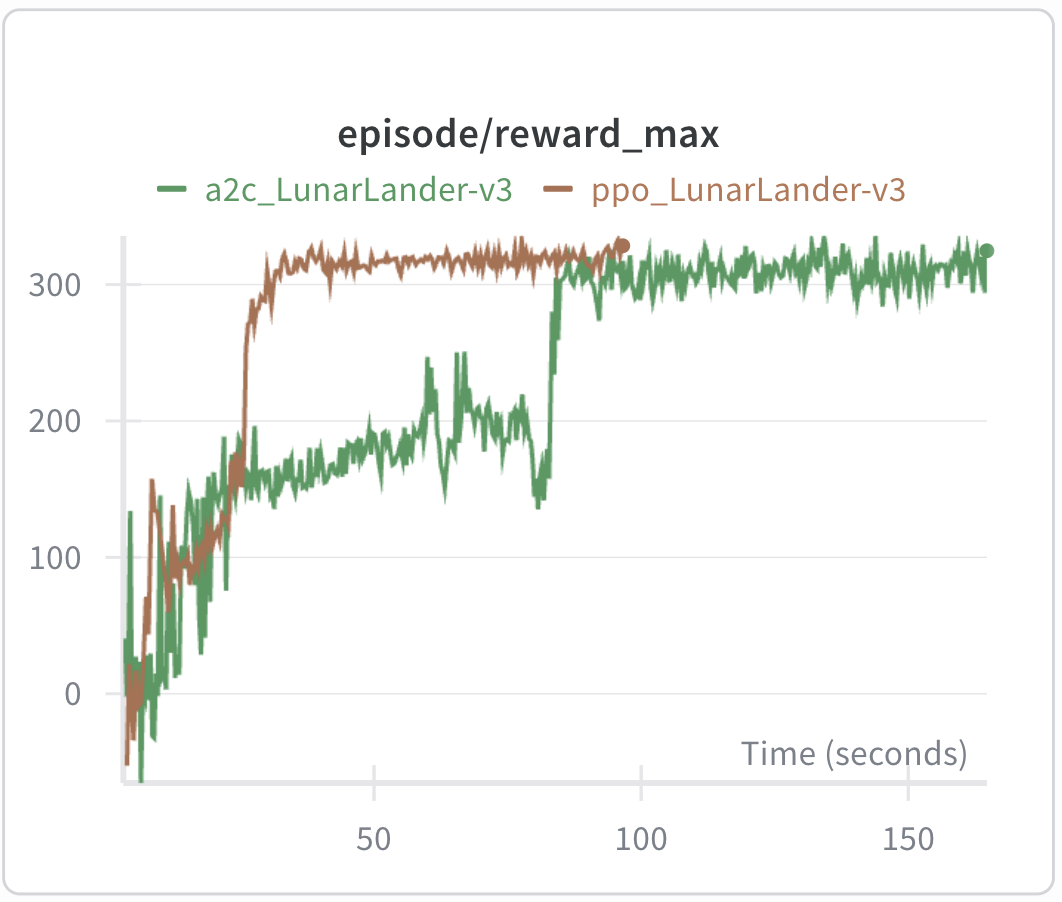
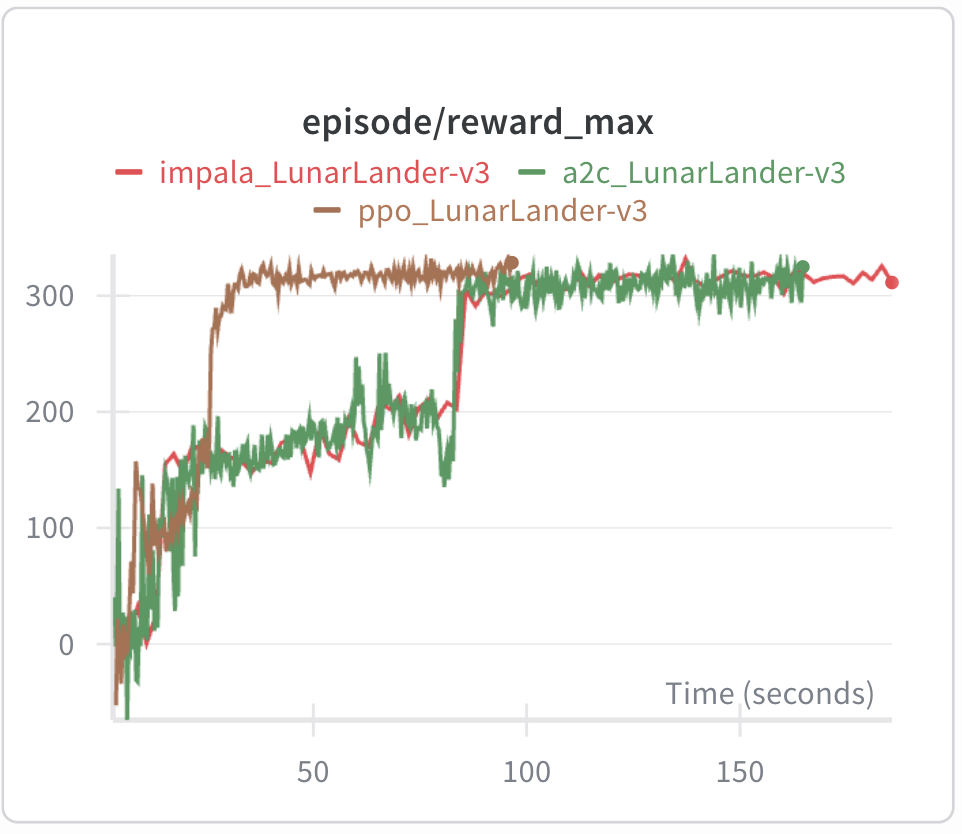
Add impala

diff --git a/impala.py b/impala.py
@@ -1,0 +1,257 @@
+# Minimal IMPALA (Importance Weighted Actor-Learner Architecture) in JAX/Flax NNX
+# Single-device, LunarLander-v3, V-trace off-policy correction
+import queue
+import threading
+import time
+from argparse import ArgumentParser
+from typing import List, NamedTuple
+
+import gymnasium as gym
+import jax
+import jax.numpy as jnp
+import numpy as np
+import optax
+import rlax
+from flax import nnx
+import wandb
+
+
+class IMPALAAgent(nnx.Module):
+    def __init__(self, obs_dim: int, action_dim: int, *, rngs: nnx.Rngs):
+        self.fc1 = nnx.Linear(obs_dim, 256, rngs=rngs)
+        self.fc_pi = nnx.Linear(256, action_dim, rngs=rngs)
+        self.fc_v = nnx.Linear(256, 1, rngs=rngs)
+
+    def __call__(self, x):
+        x = nnx.relu(self.fc1(x))
+        logits = self.fc_pi(x)
+        value = self.fc_v(x).squeeze(-1)
+        return logits, value
+
+
+class Transition(NamedTuple):
+    obs: list
+    dones: list
+    actions: list
+    logits: list
+    rewards: list
+
+
+def rollout(
+    key: jax.random.PRNGKey,
+    args,
+    rollout_queue: queue.Queue,
+    params_queue: queue.Queue,
+    thread_id: int,
+    graphdef,
+    log_to_wandb: bool,
+):
+    envs = gym.vector.SyncVectorEnv(
+        [lambda: gym.make("LunarLander-v3", max_episode_steps=300) for _ in range(args.num_envs)]
+    )
+    global_step = 0
+
+    @jax.jit
+    def get_action(params, obs, key):
+        obs = jnp.array(obs)
+        agent = nnx.merge(graphdef, params)
+        logits, _ = agent(obs)
+        key, subkey = jax.random.split(key)
+        u = jax.random.uniform(subkey, shape=logits.shape)
+        action = jnp.argmax(logits - jnp.log(-jnp.log(u)), axis=1)
+        return obs, action, logits, key
+
+    @jax.jit
+    def prepare_data(storage: List[Transition]) -> Transition:
+        return jax.tree.map(lambda *xs: jnp.stack(xs), *storage)
+
+    episode_returns = np.zeros(args.num_envs, dtype=np.float32)
+    returned_episode_returns = np.zeros(args.num_envs, dtype=np.float32)
+    episode_lengths = np.zeros(args.num_envs, dtype=np.float32)
+    returned_episode_lengths = np.zeros(args.num_envs, dtype=np.float32)
+    next_obs, _ = envs.reset(seed=args.seed + thread_id)
+    next_reward = np.zeros(args.num_envs, dtype=np.float32)
+    next_done = np.zeros(args.num_envs, dtype=np.float32)
+
+    storage = []
+
+    for update in range(1, args.num_updates + 2):
+        num_steps_with_bootstrap = args.num_steps + 1 + int(len(storage) == 0)
+
+        params = params_queue.get()
+        jax.block_until_ready(params)
+
+        for _ in range(1, num_steps_with_bootstrap):
+            obs = next_obs
+            done = next_done
+
+            global_step += args.num_envs * args.num_actor_threads
+
+            obs, action, logits, key = get_action(params, obs, key)
+            cpu_action = np.array(action)
+
+            next_obs, next_reward_raw, next_term, next_trunc, info = envs.step(cpu_action)
+            next_reward = next_reward_raw.astype(np.float32)
+            next_done_bool = next_term | next_trunc
+            next_done = next_done_bool.astype(np.float32)
+
+            storage.append(Transition(
+                obs=obs, dones=done, actions=action, logits=logits,
+                rewards=next_reward,
+            ))
+
+            episode_returns += next_reward
+            returned_episode_returns = np.where(next_done_bool, episode_returns, returned_episode_returns)
+            episode_returns *= 1 - next_done
+            episode_lengths += 1
+            returned_episode_lengths = np.where(next_done_bool, episode_lengths, returned_episode_lengths)
+            episode_lengths *= 1 - next_done
+
+        avg_episodic_return = np.mean(returned_episode_returns)
+        max_episodic_return = np.max(returned_episode_returns)
+
+        payload = (global_step, prepare_data(storage), avg_episodic_return)
+        rollout_queue.put(payload)
+        storage = storage[-1:]
+
+        if update % args.log_frequency == 0 and thread_id == 0:
+            print(f"global_step={global_step}, avg_return={avg_episodic_return:.2f}, max_return={max_episodic_return:.2f}")
+            if log_to_wandb:
+                wandb.log({
+                    "episode/reward_mean": avg_episodic_return,
+                    "episode/reward_max": max_episodic_return,
+                    "episode/length_mean": np.mean(returned_episode_lengths),
+                }, step=global_step)
+
+
+def policy_gradient_loss(logits, *args):
+    """rlax.policy_gradient_loss, but with sum(loss) and [T, B, ...] inputs."""
+    mean_per_batch = jax.vmap(rlax.policy_gradient_loss, in_axes=1)(logits, *args)
+    return jnp.sum(mean_per_batch * logits.shape[0])
+
+
+def entropy_loss_fn(logits, *args):
+    """rlax.entropy_loss, but with sum(loss) and [T, B, ...] inputs."""
+    mean_per_batch = jax.vmap(rlax.entropy_loss, in_axes=1)(logits, *args)
+    return jnp.sum(mean_per_batch * logits.shape[0])
+
+
+def impala_loss(agent, obs, actions, behavior_logits, rewards, dones, gamma, vf_coef, ent_coef):
+    discounts = (1.0 - dones[1:]) * gamma  # dones[t] is for arriving at t; need dones[t+1] for transition t→t+1
+
+    policy_logits, values = agent(obs)
+
+    v_tm1, v_t = values[:-1], values[1:]
+    policy_logits = policy_logits[:-1]
+    behavior_logits = behavior_logits[:-1]
+    actions = actions[:-1]
+    rewards = rewards[:-1]
+    mask = jnp.ones_like(rewards)
+
+    rhos = rlax.categorical_importance_sampling_ratios(policy_logits, behavior_logits, actions)
+    vtrace_returns = jax.vmap(rlax.leaky_vtrace_td_error_and_advantage, in_axes=1, out_axes=1)(
+        v_tm1, v_t, rewards, discounts, rhos,
+    )
+
+    pg_loss = policy_gradient_loss(policy_logits, actions, vtrace_returns.pg_advantage, mask)
+    baseline_loss = 0.5 * jnp.sum(jnp.square(vtrace_returns.errors) * mask)
+    ent_loss = entropy_loss_fn(policy_logits, mask)
+
+    total_loss = pg_loss + vf_coef * baseline_loss + ent_coef * ent_loss
+    return total_loss, (pg_loss, baseline_loss, ent_loss)
+
+
+def parse_arguments():
+    parser = ArgumentParser()
+    parser.add_argument("--seed", type=int, default=0)
+    parser.add_argument("--total-timesteps", type=int, default=50_000_000)
+    parser.add_argument("--num-envs", type=int, default=64)
+    parser.add_argument("--num-actor-threads", type=int, default=1)
+    parser.add_argument("--num-steps", type=int, default=128)
+    parser.add_argument("--learning-rate", type=float, default=0.003)
+    parser.add_argument("--gamma", type=float, default=0.99)
+    parser.add_argument("--ent-coef", type=float, default=0.01)
+    parser.add_argument("--vf-coef", type=float, default=0.5)
+    parser.add_argument("--max-grad-norm", type=float, default=40.0)
+    parser.add_argument("--log-frequency", type=int, default=10)
+    return parser.parse_args()
+
+
+def main():
+    args = parse_arguments()
+    batch_size = args.num_envs * args.num_steps * args.num_actor_threads
+    args.num_updates = args.total_timesteps // batch_size
+
+    wandb.init(project="minimal-flaxrl", name="impala_LunarLander-v3", config=vars(args))
+
+    np.random.seed(args.seed)
+    key = jax.random.PRNGKey(args.seed)
+
+    agent = IMPALAAgent(obs_dim=8, action_dim=4, rngs=nnx.Rngs(args.seed))
+    optimizer = nnx.Optimizer(agent, optax.chain(
+        optax.clip_by_global_norm(args.max_grad_norm),
+        optax.rmsprop(learning_rate=args.learning_rate, decay=0.99, eps=0.01),
+    ), wrt=nnx.Param)
+
+    graphdef, _ = nnx.split(agent)
+
+    # Launch actor threads
+    params_queues = []
+    rollout_queues = []
+    for thread_id in range(args.num_actor_threads):
+        pq = queue.Queue(maxsize=1)
+        rq = queue.Queue(maxsize=1)
+        pq.put(nnx.state(agent))
+        params_queues.append(pq)
+        rollout_queues.append(rq)
+        key, thread_key = jax.random.split(key)
+        threading.Thread(
+            target=rollout,
+            args=(thread_key, args, rq, pq, thread_id, graphdef, thread_id == 0),
+            daemon=True,
+        ).start()
+
+    @nnx.jit
+    def update(agent, optimizer, rollout_data):
+        storage = jax.tree.map(lambda *x: jnp.concatenate(x, axis=1), *rollout_data)
+
+        def loss_fn(agent):
+            return impala_loss(
+                agent, storage.obs, storage.actions, storage.logits,
+                storage.rewards, storage.dones,
+                args.gamma, args.vf_coef, args.ent_coef,
+            )
+
+        (loss, (pg_loss, v_loss, ent_loss)), grads = nnx.value_and_grad(loss_fn, has_aux=True)(agent)
+        optimizer.update(agent, grads)
+        return loss, pg_loss, v_loss, ent_loss
+
+    # Learner loop
+    for update_idx in range(1, args.num_updates + 1):
+        training_time_start = time.time()
+        rollout_data = []
+        for thread_id in range(args.num_actor_threads):
+            global_step, transition, avg_return = rollout_queues[thread_id].get()
+            rollout_data.append(transition)
+
+        loss, pg_loss, v_loss, ent_loss = update(agent, optimizer, rollout_data)
+
+        new_params = nnx.state(agent)
+        for pq in params_queues:
+            pq.put(new_params)
+
+        if update_idx % args.log_frequency == 0:
+            print(f"update={update_idx}/{args.num_updates}, loss={float(loss):.4f}, training_time={time.time() - training_time_start:.3f}s")
+            wandb.log({
+                "train/iteration": update_idx,
+                "train/global_env_step": global_step,
+                "train/actor_loss": float(pg_loss),
+                "train/critic_loss": float(v_loss),
+                "train/entropy": float(ent_loss),
+            }, step=global_step)
+
+    wandb.finish()
+
+
+if __name__ == "__main__":
+    main()

diff --git a/a2c.py b/a2c.py
@@ -114,7 +114,7 @@ def parse_arguments():
 
 def main():
     args = parse_arguments()
-    wandb.init(project="jax-playground", name=f"a2c_{args.env_name}", config=vars(args))
+    wandb.init(project="minimal-flaxrl", name=f"a2c_{args.env_name}", config=vars(args))
 
     rngs = nnx.Rngs(args.seed)
     a2c = A2C(rngs=rngs)

diff --git a/ppo.py b/ppo.py
@@ -132,7 +132,7 @@ def parse_arguments():
 
 def main():
     args = parse_arguments()
-    wandb.init(project="jax-playground", name=f"ppo_{args.env_name}", config=vars(args))
+    wandb.init(project="minimal-flaxrl", name=f"ppo_{args.env_name}", config=vars(args))
 
     rngs = nnx.Rngs(args.seed)
     ppo = PPO(rngs=rngs)

diff --git a/README.md b/README.md
@@ -15,6 +15,7 @@ wandb login                       # for experiment logging
 |-----------|-------|---------|---------------|
 | [PPO](ppo.py) | 218 | `python ppo.py` | ~40 sec |
 | [A2C](a2c.py) | 180 | `python a2c.py` | ~100 sec |
+| [Impala](impala.py) | 257 | `python impala.py` | ~100 sec |
 
 
 If you'd like to see a specific algorithm implemented, feel free to open an [issue](../../issues).
